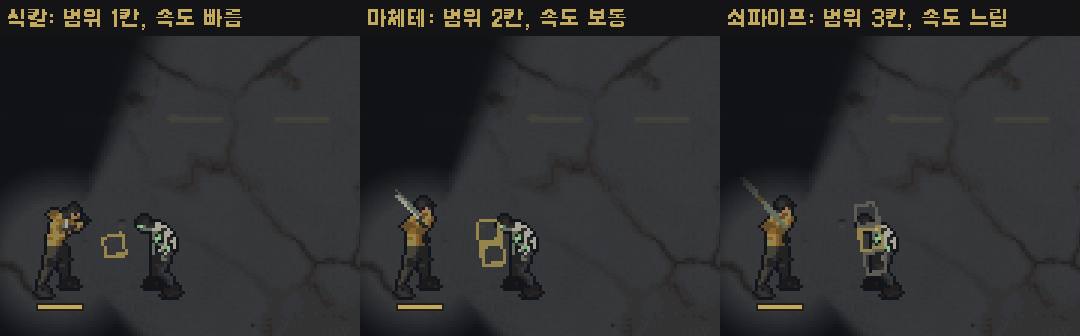
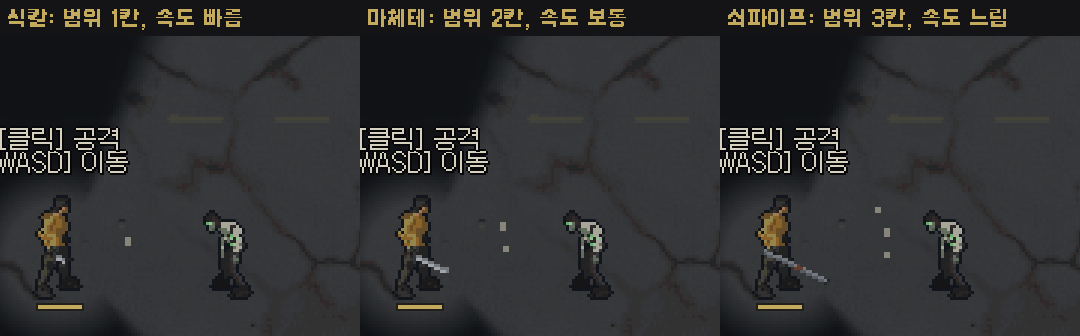
공격 범위 칸을 네모 대신 점으로 표시
- 칸마다 점 하나: 식칼 1개, 마체테·도끼·방망이 2개, 쇠파이프 3개
- 점을 캔버스 격자에 맞춰 2x2로 고르게

diff --git a/src/play.py b/src/play.py
@@ -747,33 +747,27 @@ class Game:
         aim = self.aimed(*self.aim) if charged else None
         tx, ty = self.mouse_world(*self.aim)              # toward the cursor
         part = aim[1] if aim is not None else "torso"
-        faint = (120, 116, 104)
+        faint = (176, 172, 158)                             # pale, like the slash's trail
         full = {"head": (226, 70, 56), "torso": (196, 170, 92), "legs": (120, 160, 210),
                 "ground": (214, 128, 52)}[part]
         colour = full
         sx, sy = hero.x, hero.y + CHEST
         ang = atan2(ty - sy, tx - sx)
         length = weapons.attack_range(w)                   # exactly the range the hit uses
-        step = 6
-
-        def dot(x, y, tint, size=1):
-            pico2d.draw_rectangle(x - size - cx, y - size - cy, x + size - cx, y + size - cy, *tint, filled=True)
-
-        # Where the blow ends: a row of `cells` squares across the aim at the reach (2026-11-16
-        # "칸으로 정해서"). Faint until the button is held; then the squares fill with colour from
-        # the middle out (the charge), all coloured = charged.
+        # Where the blow ends: the dotted arc at the reach, as before, but in cells (2026-11-16
+        # "칸으로 정해서"; the squares were "너무 큽니다 - 점들처럼"): one dot per cell on the arc,
+        # a cell apart, so 1, 2 or 3 dots are counted at a glance (a pair per cell ran together). Faint
+        # until the button is held; then the cells fill with colour from the middle out (the charge).
         cell, count = weapons.CELL_WORLD, w["cells"]
-        ux, uy = cos(ang), sin(ang)                        # along the aim
-        vx, vy = -uy, ux                                   # across it
-        half = cell / 2 - 1
         for i in range(count):
-            off = (i - (count - 1) / 2) * cell
-            mx, my = sx + ux * (length - cell / 2) + vx * off, sy + uy * (length - cell / 2) + vy * off
+            off = (i - (count - 1) / 2) * cell             # the cell's middle, across the aim
             middle = abs(i - (count - 1) / 2) / max(1, count / 2)      # 0 in the middle .. ~1 at the ends
             tint = full if charge > 0 and middle <= charge else faint
-            for t in range(-int(half), int(half) + 1, 2):  # the square's outline, dotted
-                for a_, b_ in ((t, -half), (t, half), (-half, t), (half, t)):
-                    dot(mx + ux * a_ + vx * b_, my + uy * a_ + vy * b_, tint, 0.5)
+            a = ang + off / length
+            # a 2 x 2 canvas-pixel square on the canvas grid: even, crisp dots at any camera
+            qx = round((sx + cos(a) * length - cx) * DOT) / DOT
+            qy = round((sy + sin(a) * length - cy) * DOT) / DOT
+            pico2d.draw_rectangle(qx, qy, qx + 1.99 / DOT, qy + 1.99 / DOT, *tint, filled=True)
         if aim is not None:                               # the part it goes for, on the body
             z = aim[0]
             if z.prone:                                   # a crawler: all of it, on the ground

diff --git a/PRD.md b/PRD.md
@@ -19,6 +19,7 @@
 
 > **기획 고정 문서:** [DESIGN_LOCK.md](docs/planning/DESIGN_LOCK.md)(2026-11-13)가 기둥 3개·확정·정할 것·보류함·바꾸는 규칙을 담는다. 이 PRD와 어긋나면 고정 문서가 우선이고 PRD를 고친다.
 
+- **v7.13 (2026-11-16) — 범위 칸을 점으로.** 사용자 "박스가 너무 큽니다, 오른쪽 사진의 점들처럼"(그림: 예전 점선 호). 범위 끝에 칸마다 점 하나(2×2 도트)를 호 위에 한 칸 간격으로 찍는다: 식칼 점 1개, 마체테·도끼·방망이 2개, 쇠파이프 3개. 점은 캔버스 격자에 맞춰 크기가 고르다. 차징하면 가운데 점부터 색이 찬다.
 - **v7.12 (2026-11-16) — 목표 쪽지 접기.** 사용자 "쪽지를 접고 펼 수 있게 해". 왼쪽 위 목표 쪽지를 클릭하면 작은 "목표" 탭으로 접히고, 다시 클릭하면 펼쳐진다. 쪽지를 누른 클릭은 공격이 되지 않는다. 구석에서 주인공 머리 위 키 표시를 가리던 문제 때문.
   - **접기 표시:** 사용자 그림(오른쪽을 가리키는 삼각형), "빗금 ㄴㄴ" → 빗금 없이 테두리와 뒤집힌 종이 색으로 채운 작은 삼각형. 펼친 쪽지 오른쪽 위에는 왼쪽을 가리켜(접기), 접힌 탭에는 오른쪽을 가리켜(펼치기) 그린다.
 - **v7.11 (2026-11-16) — 설명 글 줄이기 A·B.** 사용자 "설명하는 글들이 안 떠도 유저가 알 수 있게" → 제안 중 "A·B 먼저".

diff --git a/docs/DEVLOG.md b/docs/DEVLOG.md
@@ -293,3 +293,4 @@
 - **쪽지 접기:** `Game.note_folded`, `hud.note_rect`(펼침 172×46 / 접힘 "목표" 탭). `press`가 쪽지 위면 접기만 하고 `note_click`으로 놓을 때 공격을 막는다. 접기·펼치기 3번 모두 공격이 나가지 않음, 관련 점검 9개 통과(`docs/planning/note_fold_ingame.png`).
 - **쪽지 접기 표시:** `hud.fold_mark(x, y, right)` 7×9 삼각형. 처음엔 빗금을 넣었다가 "빗금 ㄴㄴ"로 단색 채움으로 바꿨다.
 - **삼각형 다시:** "삼각형 똑바로 그려라" → 줄 길이가 2씩 늘어 빗변이 끊겼다. 6×11로 줄마다 1씩 늘려 45도 계단으로 고르게 했고, 펼친 쪽지 쪽은 종이 끝에서 조금 안으로 옮겼다.
+- **범위 칸을 점으로:** 네모 → 칸마다 점 3개(흐려서 칸 구분 안 됨) → 칸마다 점 2개(붙어서 선이 됨) → 칸마다 점 1개로 정했다. 점 위치를 캔버스 격자로 반올림하고 1.99/DOT 크기로 그려 모두 2×2. 쓰지 않게 된 `dot` 도우미를 지웠다. 관련 점검 5개 통과.
